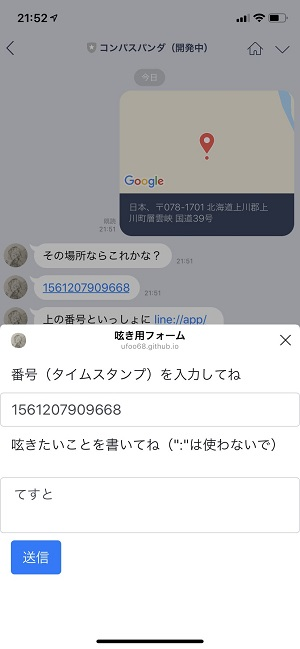
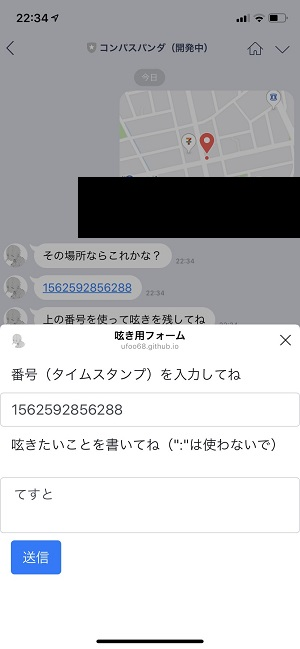
[update]READMEを使い方を更新

diff --git a/README.md b/README.md
@@ -8,49 +8,38 @@
 
 このようにしてみんなの呟きが地図の上に現れることで、一つの地図アプリになっていきます。そして、後からその地域にやってくる人を案内するための**コンパス**が完成されていきます。
 
+![img](./assets/image.png "イメージ図")
+
+イメージキャラクターです。このお姉さんがコンパスパンダの案内をしてくれます。
+
 # Botの使い方
 ![img](./assets/QR.png "QR")  
 友達追加はこのQRコードからできます。  
-登録ができたら早速トーク画面を開いてください。  
-![img](./assets/start.jpg "スタート画面")   
+登録ができたら早速トーク画面を開いてください。</br>
 
-↑こんな感じのトーク画面が開かれます。使い方の説明は、赤枠で囲んだアイコンをタップしてみると教えてくれます。  
+![img](./assets/start.jpg "キーボード")  
 
-![img](./assets/usage.jpg "使い方")   
+そしたら早速呟いてみたいので、**位置情報を送信**してみます。赤枠のところをタップして位置情報を送信します。</br>
 
-早速呟いてみたいので、説明の通り**位置情報を送信**してみます。赤枠のところをタップしてキーボードメニューに切り替えます。  
+![img](./assets/selectForm.jpg "位置情報送信後")  
 
-![img](./assets/keyboad.jpg "キーボード")  
-
-キーボードメニューに切り替わったので赤枠内のところをタップしてみます。  
-
-![img](./assets/selectLocate.jpg "選択画面")
-
-続けて赤枠内のところをタップすると位置情報の送信ができます。
-
-![img](./assets/locate.jpg "位置情報送信")  
-
-**自分のいるところ**を選択しましょう。
-
-![img](./assets/locateDone.jpg "位置情報送信後")  
-
-位置情報を送信すると、色々とメッセージが送られてきます。青矢印で示している「line://」から始まるURLをタップすると**呟き**をするためのフォームが開きます。  
+位置情報を送信すると、色々とメッセージが送られてきます。「呟きを残す」をタップしてみましょう。
 このとき赤枠内で示している数字が**自分の位置情報**と**呟き**の情報を紐づけるためのキーとなるので、そのまま番号（ここでは**タイムスタンプ**と呼んでいます）をコピーをしてください。  
 
-![img](./assets/form.jpg "位置情報送信後")  
+![img](./assets/form.jpg "form")  
 
 フォームが開いたら、先ほどコピーした**タイムスタンプの番号**を上の欄に、**呟きたいこと**を下のテキストエリアに入力してそのまま「送信」を押して下さい。送信に成功すればそのままフォームが自動で閉じられます。閉じられなかった場合は送信に失敗しているので、お手数ですがもう一度入力をして送信してください。  
 このときテキストエリアには「:」の文字が入らないようにしてください。システムの特性上、「:」が呟きのフォームに含まれていると、テキストの送信に成功しても**コンパスパンダが「呟き」として認識してくれません**    
 
-![img](./assets/tweet.jpg "フォーム送信後")  
+![img](./assets/tweeted.jpg "フォーム送信後")  
 
-呟きの送信に成功すると↑のようなメッセージが送られてきます。そのまま呟きを確認したいので、今度はリッチメニューに戻ります。赤枠内のところをタップしてください。  
+呟きの送信に成功すると↑のようなメッセージが送られてきます。
 
-![img](./assets/menuMap.jpg "リッチメニュー再び")  
+![img](./assets/munumap.jpg "リッチメニュー再び")  
 
-リッチメニューに切り替わるので、今度は赤枠内で囲んだアイコンをタップしてみましょう。  
+そのまま呟きを確認したいので、今度はリッチメニューに戻ります。「地図を見る」をタップしてください。  
 
-![img](./assets/maping.jpg "地図")  
+![img](./assets/locateTweet.jpg "地図")  
 
 そのまま地図が現れてくると思います。先ほど**呟きを残した**場所に立っているマーカーをタップしてみると呟きが確認できます。  
 
